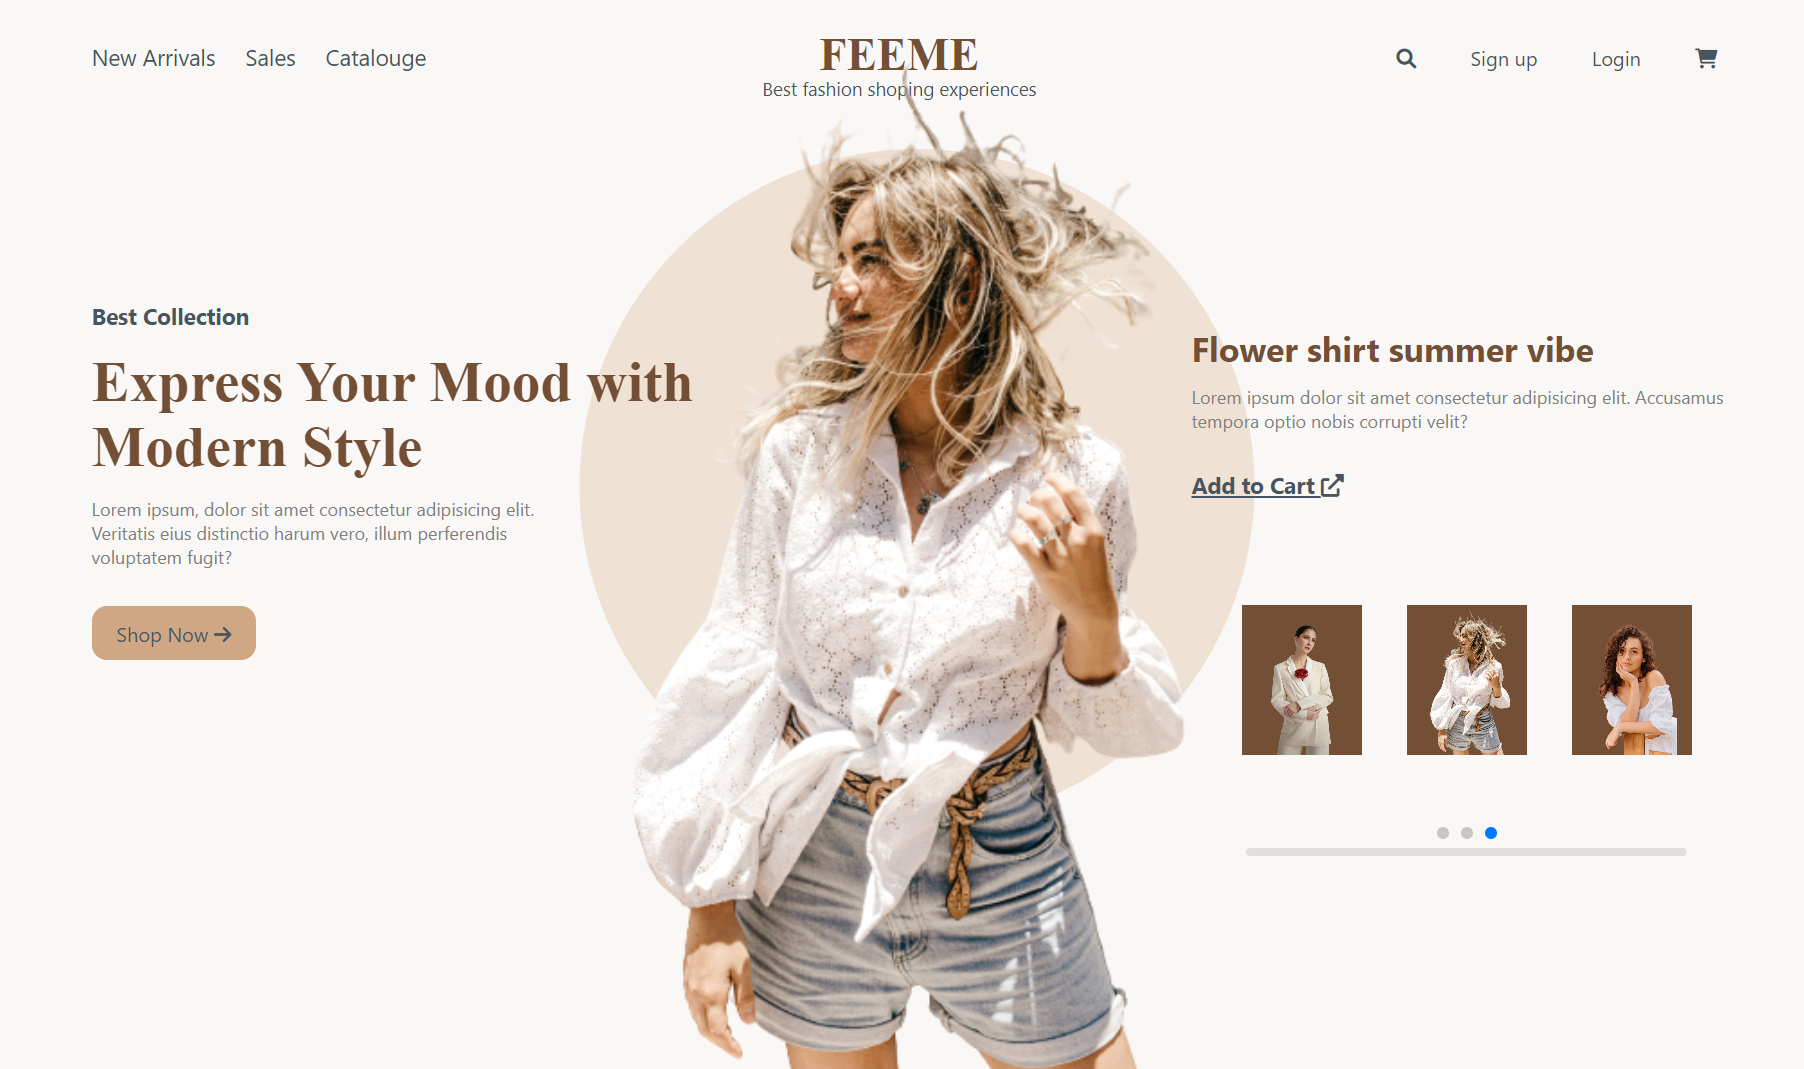
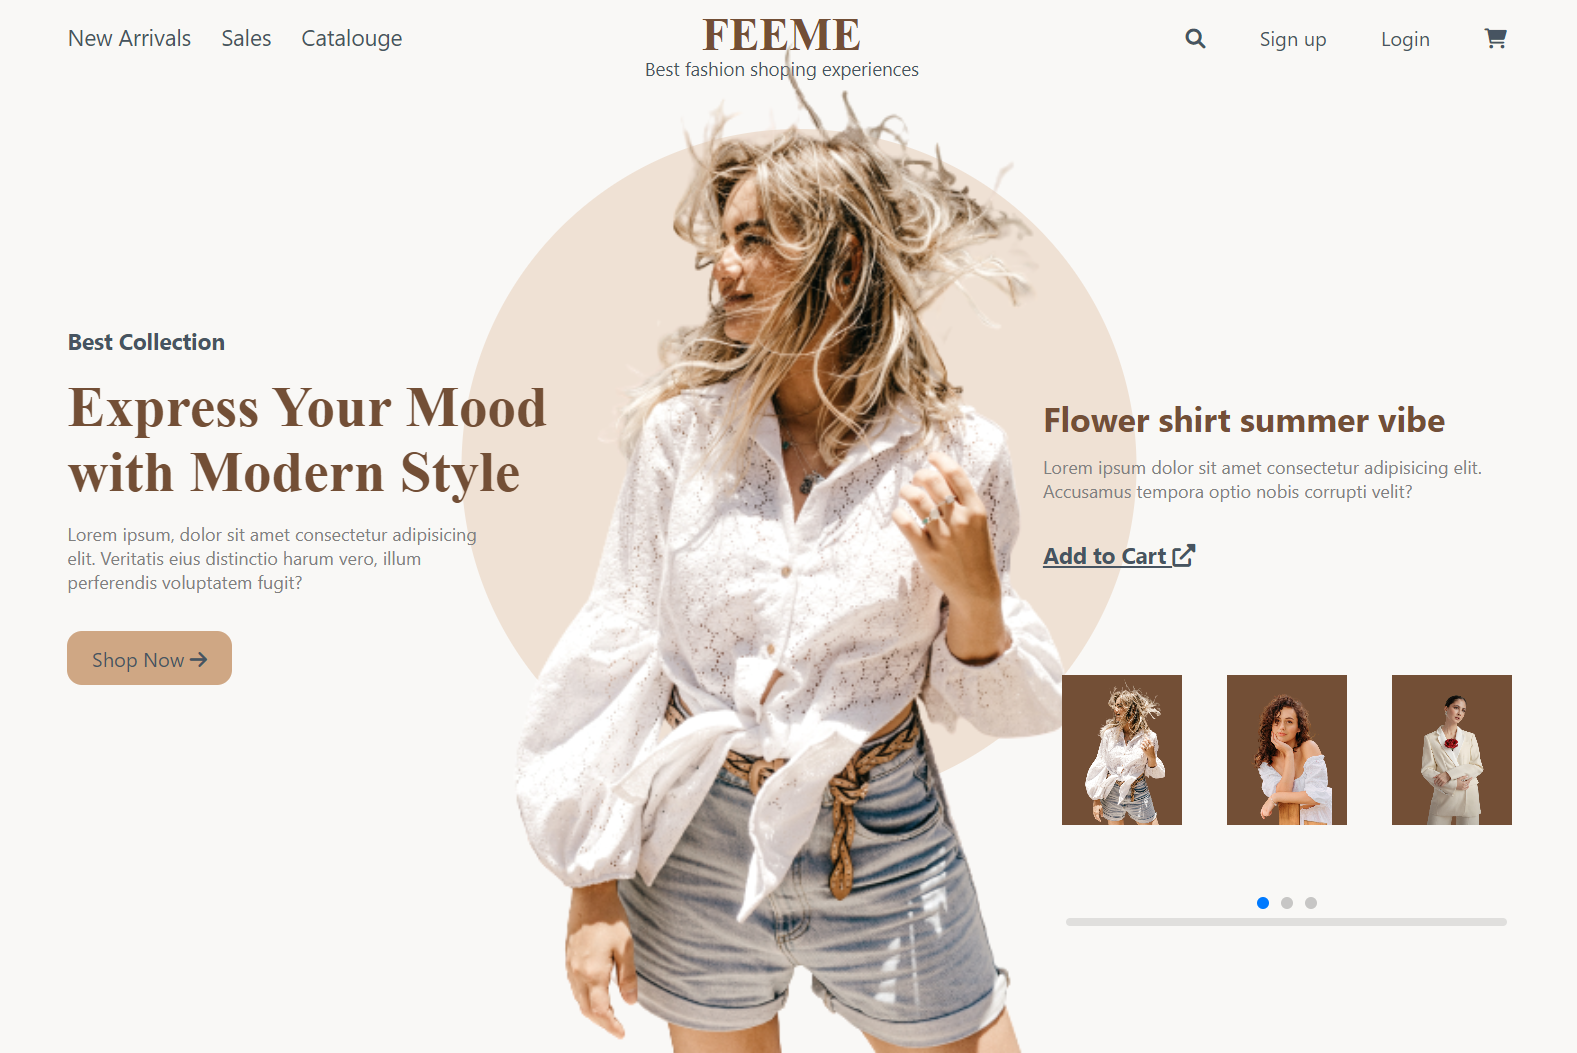
main

diff --git a/styles/layout/hero.css b/styles/layout/hero.css
@@ -43,16 +43,16 @@
 
 .ring{
     border-radius: 50%;
-    height: 450px;
-    width: 450px;
+    height: 490px;
+    width: 490px;
     background-color: var(--primary-color);
 }
 
 .hero__wrapper--mid img{
     position:absolute;
-    height: 690px;
-    left: -40px;
-    top: -70px;
+    height: 730px;
+    left: -50px;
+    top: -50px;
 }
 
 .hero__wrapper--right{
